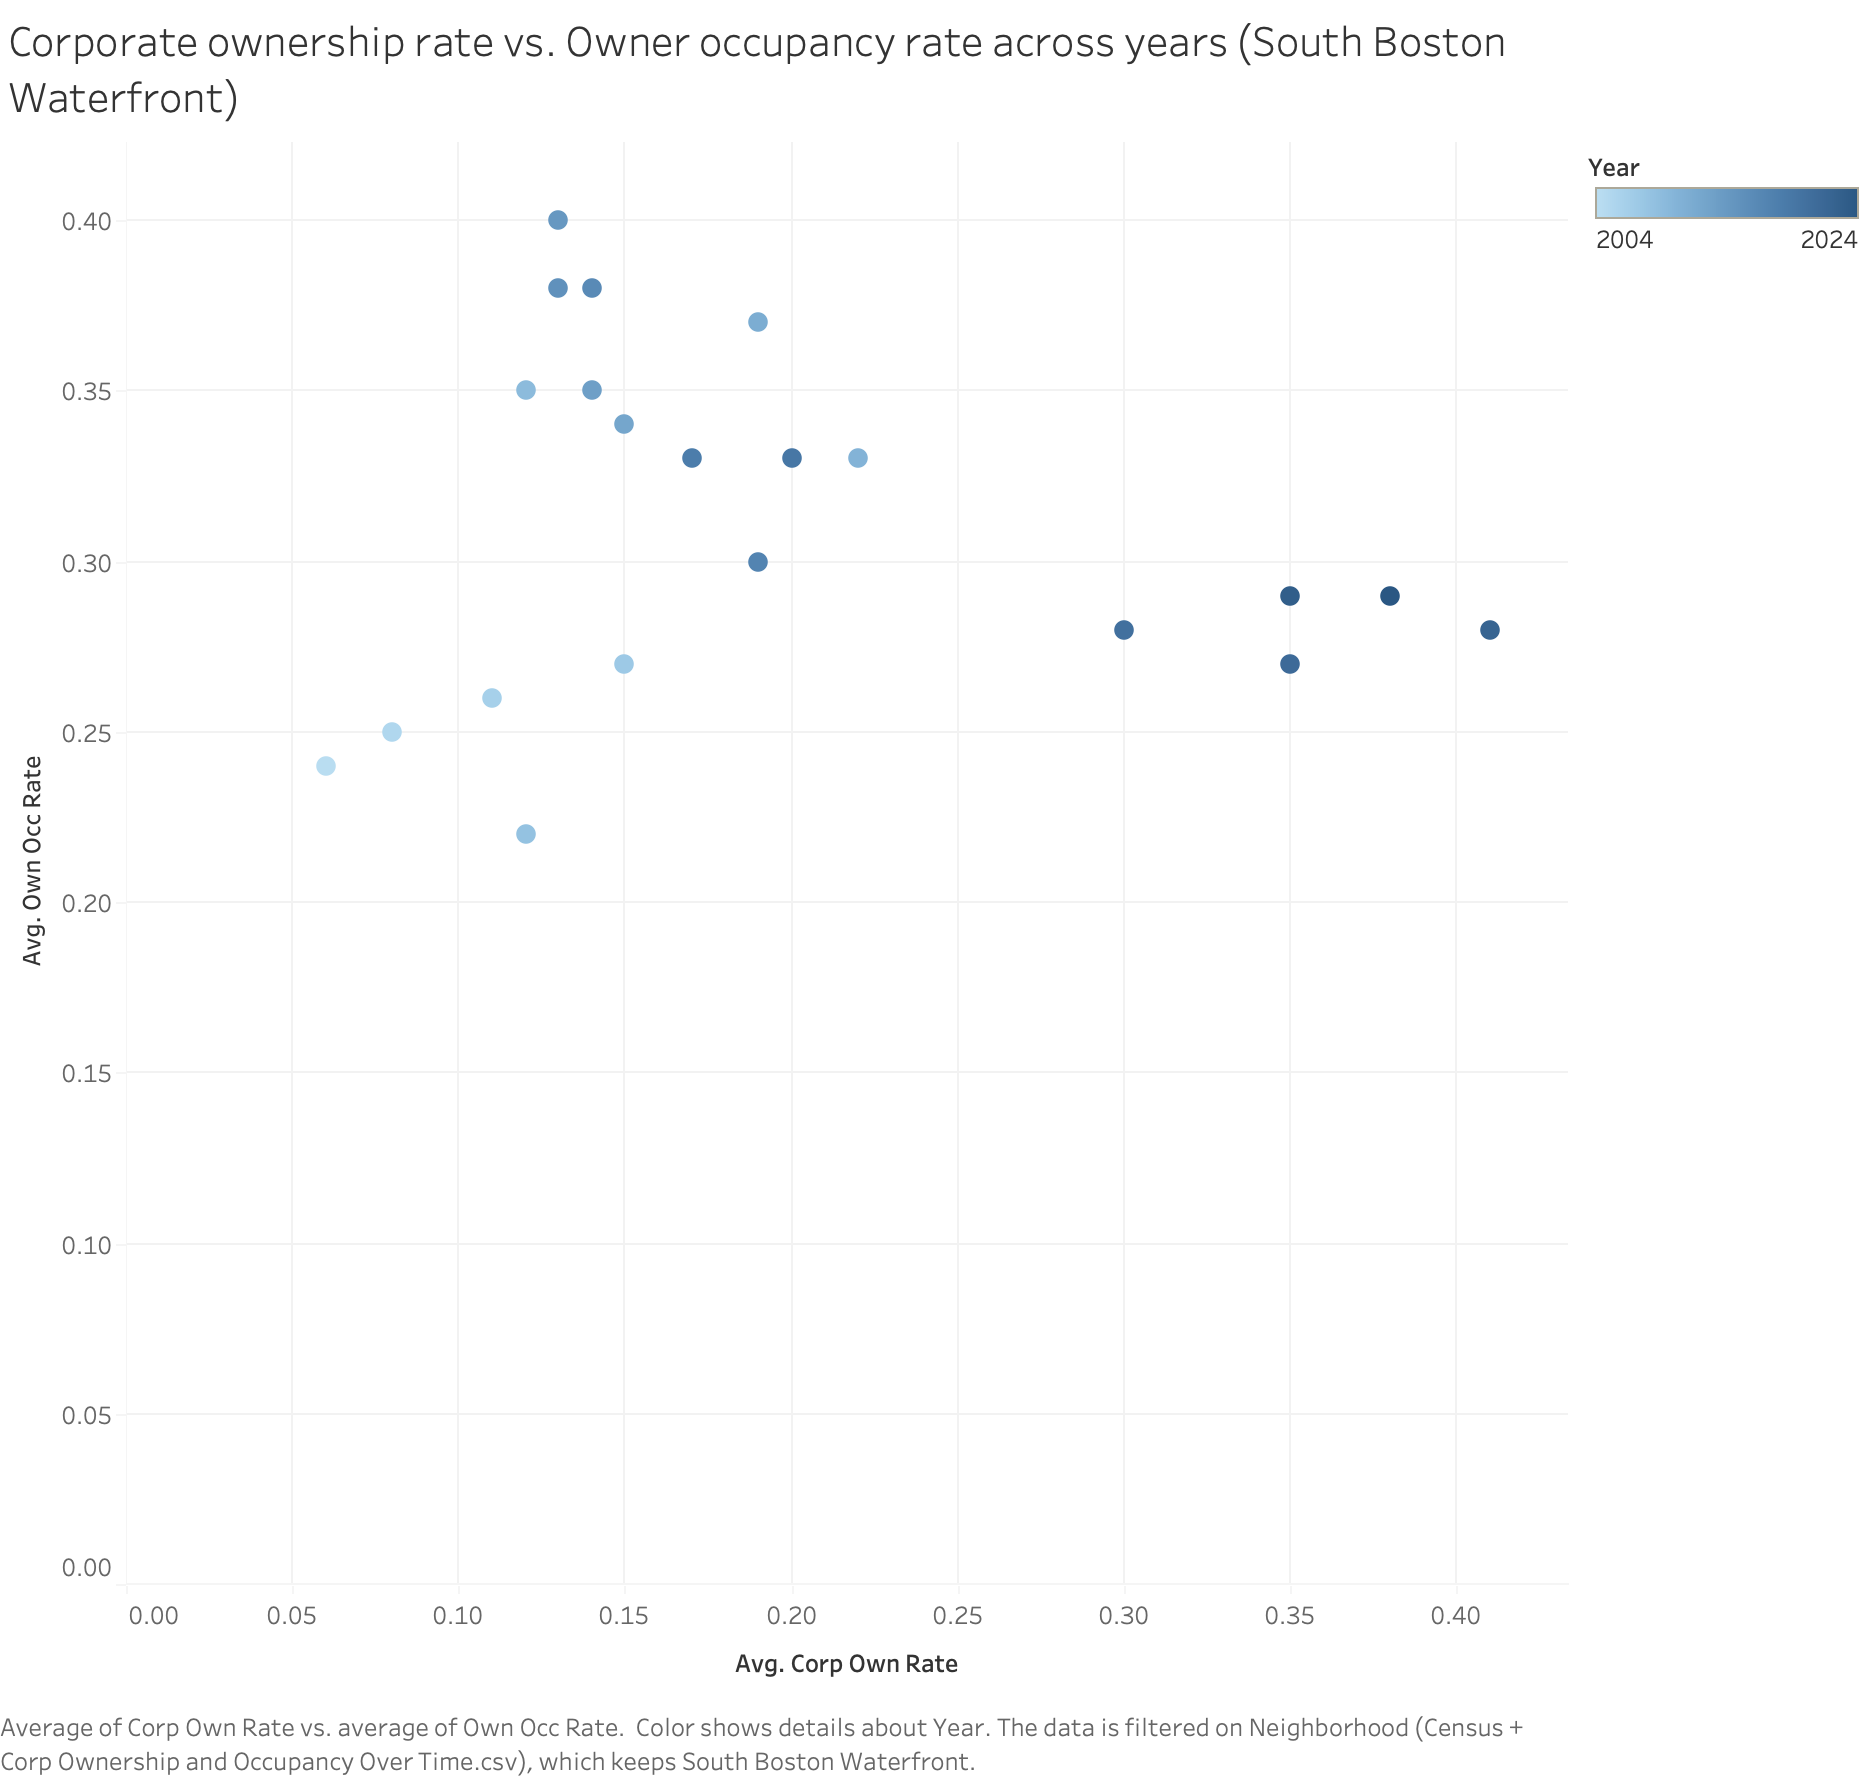
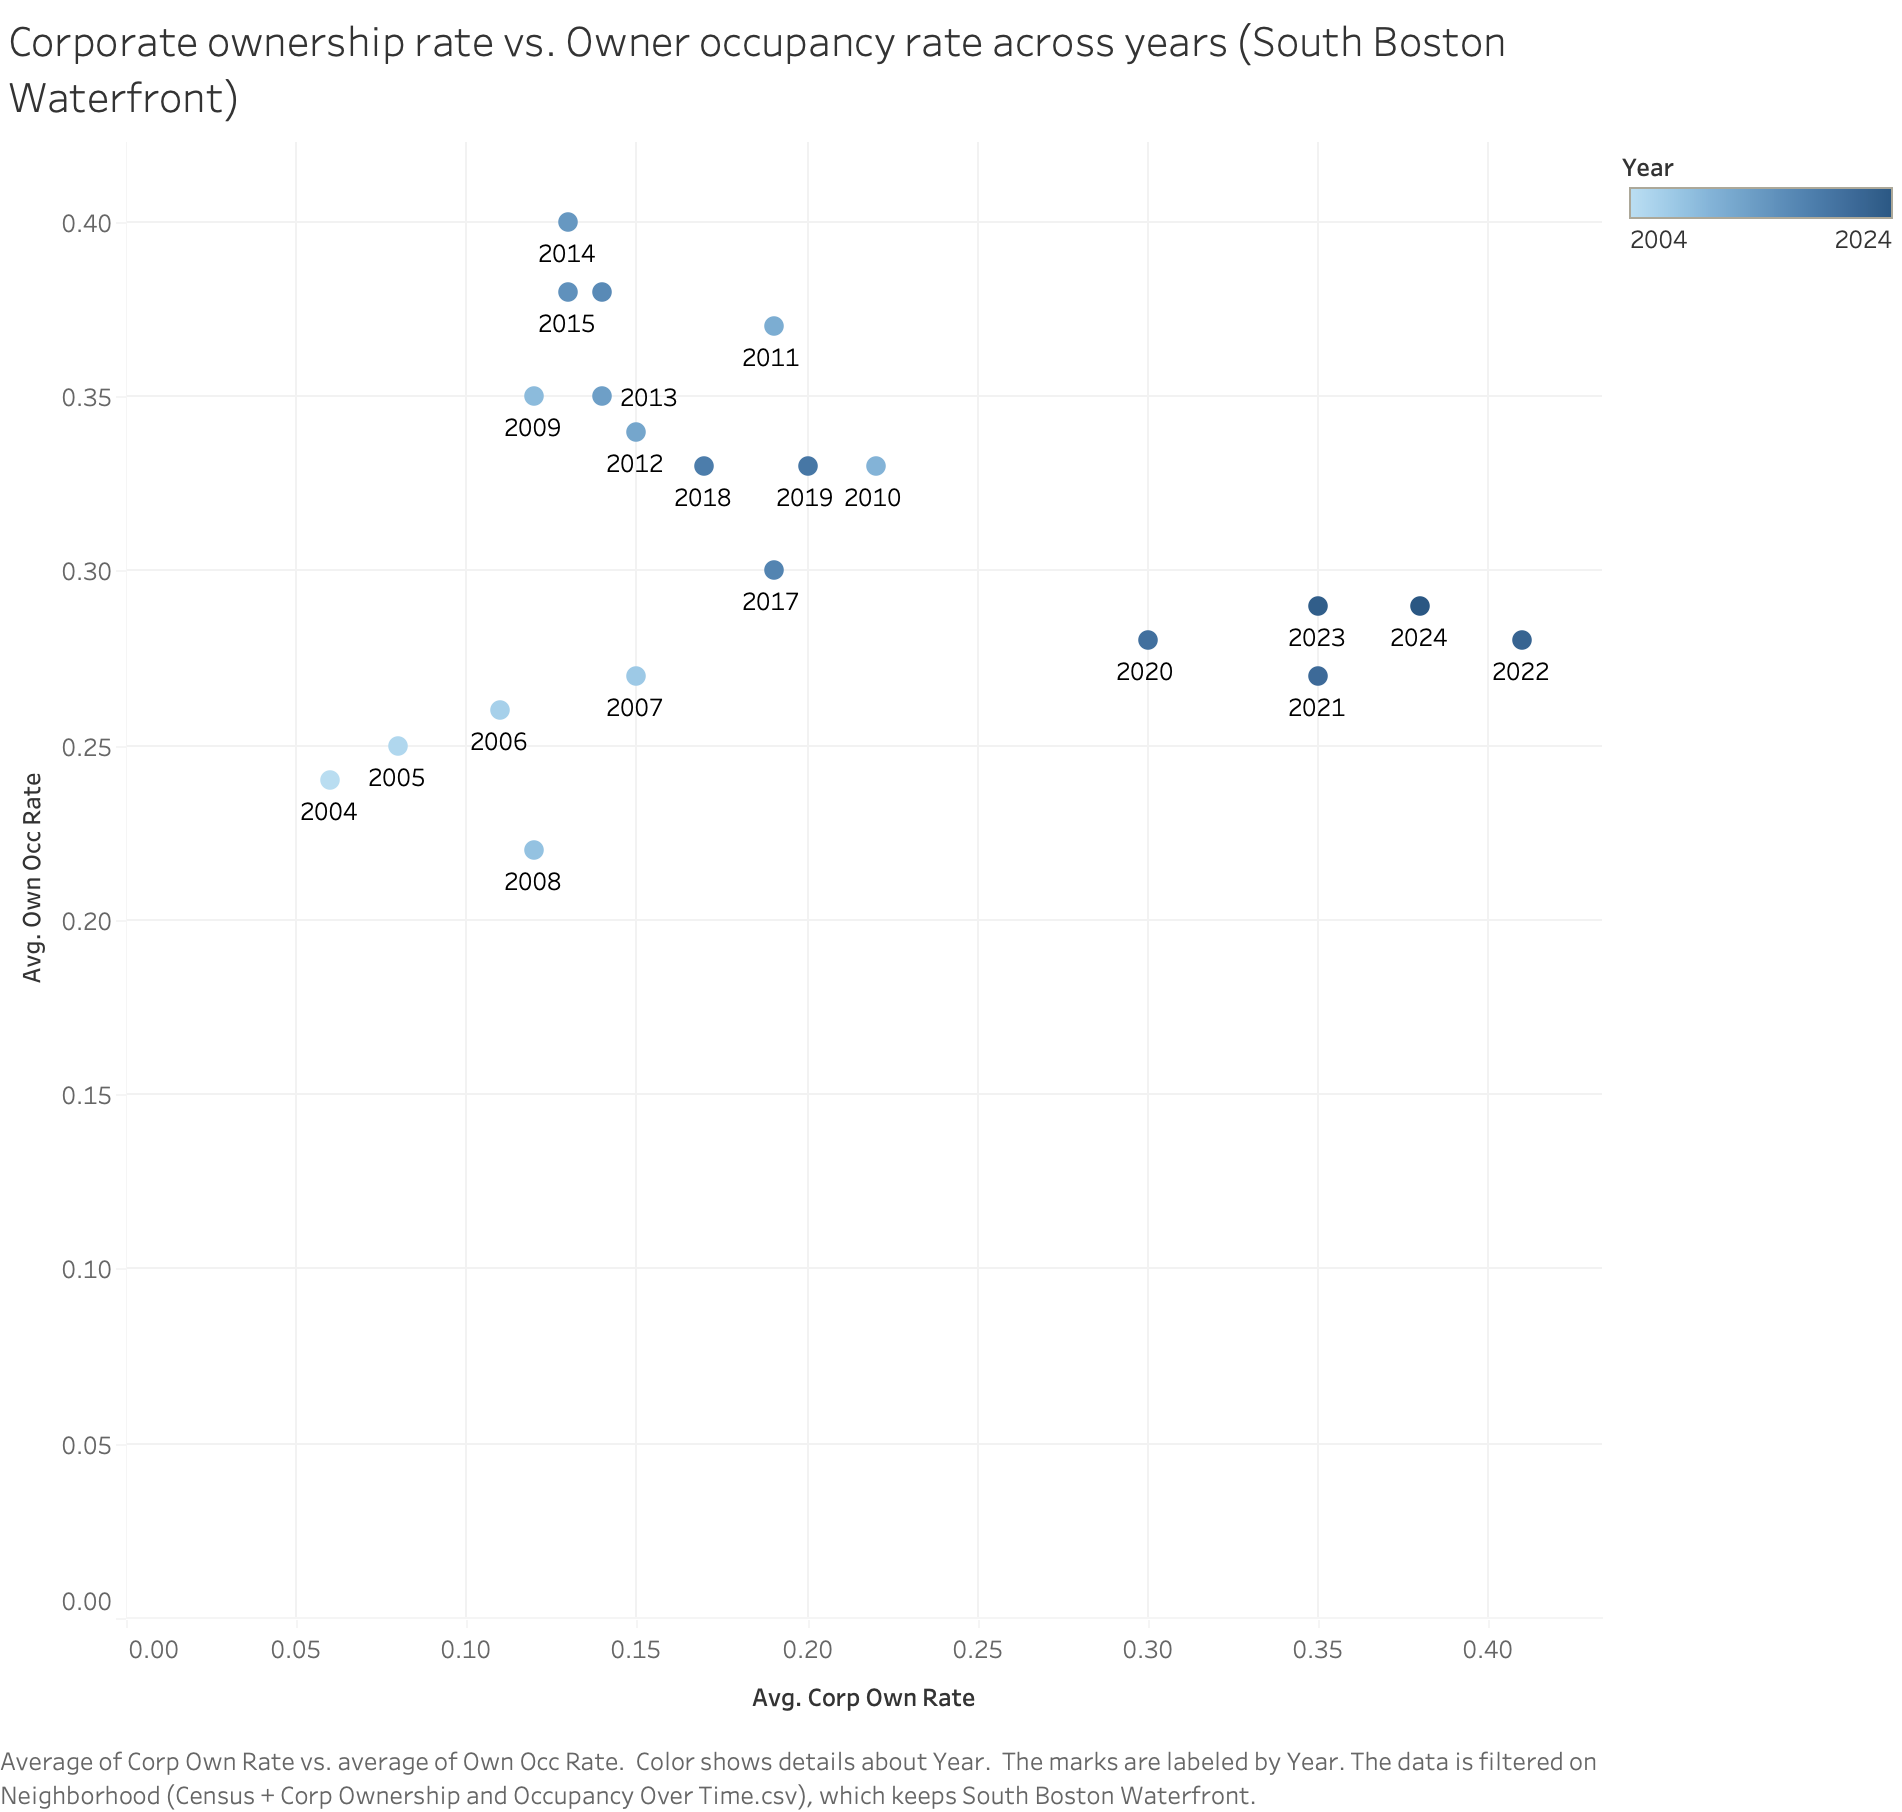
image6

diff --git a/projects/A2/A2_report.html b/projects/A2/A2_report.html
@@ -62,14 +62,14 @@
 			<figure>
 				<img src="Corporate ownership rate vs. Owner occupancy rate across years (South Boston Waterfront).png" alt="" style="width: 55vw; min-width: 330px;"/>
 				<figcaption>
-				When drilling into the neighborhood with periodic variation in both corporate ownership and owner occupancy rates, suprisingly do not see the same relation between them over time as we do across neighborhoods.
+				When drilling into the neighborhood seen above with periodic variation in both corporate ownership and owner occupancy rates over time (South Boston Waterfront), suprisingly we do not see the same relation between rates over time as we do across neighborhoods. Lower corporate ownership rates do not necessarily lead to higher owner occupancy rates. However, we can see that the point with low corporate ownership rates and low owner occupancy rates are all from the first 5 years.
 				</figcaption>
 			</figure>
 
 			<figure>
-				<img src="IMAGE_FILENAME" alt="" style="width: 55vw; min-width: 330px;"/>
+				<img src="Corporate ownership rate vs. Owner occupancy rate across years (South Boston Waterfront, 2009-2024).png" alt="" style="width: 55vw; min-width: 330px;"/>
 				<figcaption>
-				ENTER IMAGE CAPTION HERE.
+				We can see the trend between corporate ownership rates and owner occupancy rates in South Bostno Waterfront returns when we consider only the period from 2009 onward.
 				</figcaption>
 			</figure>
 
